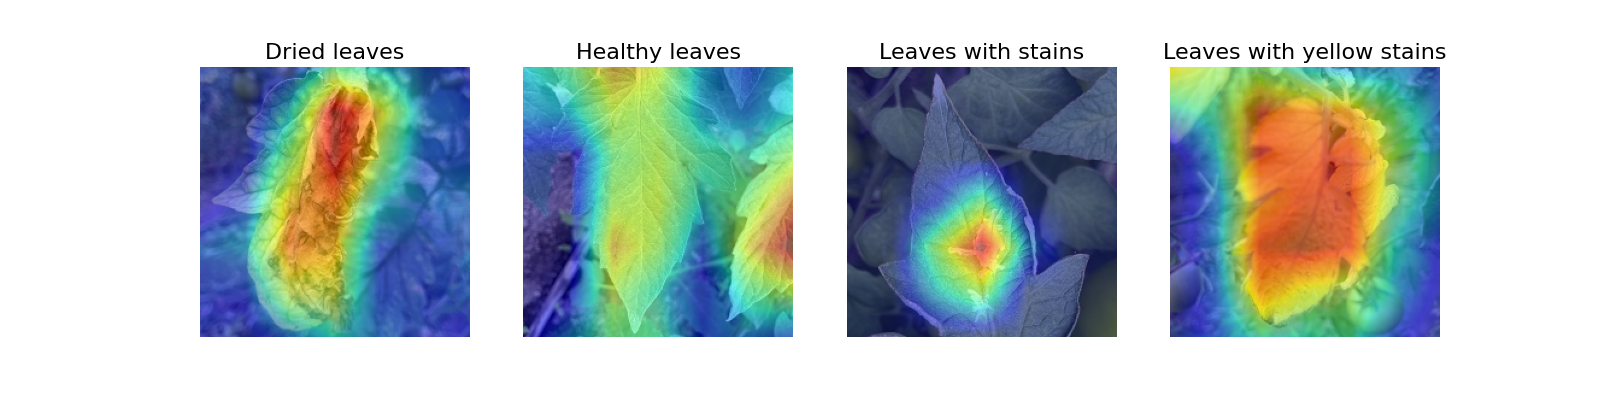
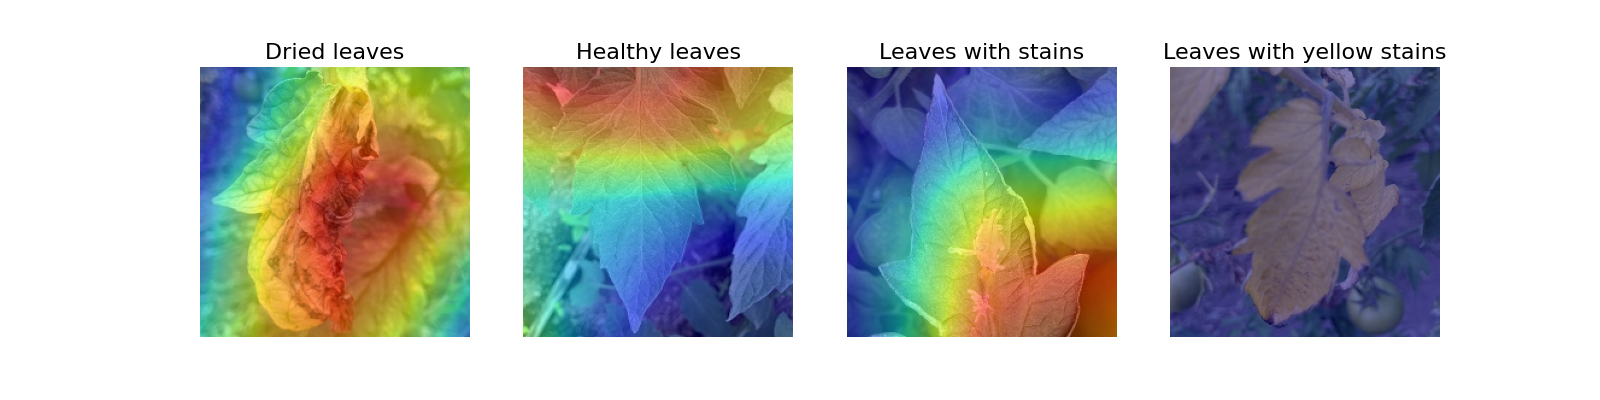
grad_cam_final

diff --git a/gradcam.py b/gradcam.py
@@ -33,7 +33,7 @@ img_label4 = keras.utils.load_img(test_path + "/leaves_yellow_stains/20230704_21
 test_images = [img_label1,img_label2,img_label3,img_label4]
 
 models_names = ["Efficient", "Inception", "Mobilenet", "Xception", "VGG16"]
-model_convext = tf.keras.models.load_model("C:/Users/paur/Documents/Invernadero/Models/Convext/Convext_Falseunfree.h5")
+#model_convext = tf.keras.models.load_model("C:/Users/paur/Documents/Invernadero/Models/Convext/Convext_Falseunfree.h5")
 model_efficient = tf.keras.models.load_model("C:/Users/paur/Documents/Invernadero/Models/Efficient/Efficient_Falseunfree.h5")
 model_inception = tf.keras.models.load_model("C:/Users/paur/Documents/Invernadero/Models/Inception/Inception_Falseunfree.h5")
 model_mobilenet = tf.keras.models.load_model("C:/Users/paur/Documents/Invernadero/Models/Mobilenet/Mobilenet_Falseunfree.h5")
@@ -41,6 +41,12 @@ model_xception = tf.keras.models.load_model("C:/Users/paur/Documents/Invernadero
 model_vgg16 = tf.keras.models.load_model("C:/Users/paur/Documents/Invernadero/Models/VGG16/vgg16_Falseunfree.h5")
 models = [model_efficient, model_inception, model_mobilenet, model_xception, model_vgg16]
 
+model_variations = ["added_top_l", "unfrozen", "augmented", "unfro_aug"]
+############ Efficient  ################################
+model_efficient_1 = tf.keras.models.load_model("C:/Users/paur/Documents/Invernadero/Models/Efficient/Efficient_False.h5")
+model_efficient_2 = tf.keras.models.load_model("C:/Users/paur/Documents/Invernadero/Models/Efficient/Efficient_True.h5")
+model_efficient_3 = tf.keras.models.load_model("C:/Users/paur/Documents/Invernadero/Models/Efficient/Efficient_Falseunfree.h5")
+model_efficient_4 = tf.keras.models.load_model("C:/Users/paur/Documents/Invernadero/Models/Efficient/Efficient_Trueunfree.h5")
 
 #Loading.
 def visualization (image_titles):
@@ -73,7 +79,7 @@ def grad_cam_models (models, img, models_names, output_path, label, label_score)
         
         
         
-def grad_cam_labels (model, test_images, model_name):
+def grad_cam_labels (model, test_images, model_name, output_path):
     gradcam = Gradcam(model,
                     model_modifier=replace2linear,
                     clone=False)
@@ -94,18 +100,40 @@ def grad_cam_labels (model, test_images, model_name):
     plt.show() 
     
 
-
-
-
+#########################################################################################
 visualization (image_titles)
 for i, image in enumerate (test_images):
     grad_cam_models (models, image, models_names, output_path, image_titles[i] , i)
 
 for i, model in enumerate (models):
-    grad_cam_labels (model_efficient, test_images, models_names[i])
+    grad_cam_labels (model, test_images, models_names[i],output_path)
 
+##########################################################################################
+model_variations = ["added_top_l", "unfrozen", "augmented", "unfro_aug"]
+############ Efficient  ################################
+model_efficient_1 = tf.keras.models.load_model("C:/Users/paur/Documents/Invernadero/Models/Efficient/Efficient_False.h5")
+model_efficient_2 = tf.keras.models.load_model("C:/Users/paur/Documents/Invernadero/Models/Efficient/Efficient_True.h5")
+model_efficient_3 = tf.keras.models.load_model("C:/Users/paur/Documents/Invernadero/Models/Efficient/Efficient_Falseunfree.h5")
+model_efficient_4 = tf.keras.models.load_model("C:/Users/paur/Documents/Invernadero/Models/Efficient/Efficient_Trueunfree.h5")
 
+efficient_models = [model_efficient_1,model_efficient_2,model_efficient_3,model_efficient_4]
+output_path_effi = "C:/Users/paur/Documents/Invernadero/Greenhouse_project/grad_cam" + "/Efficient/"
+os.makedirs(output_path_effi, exist_ok=True)
+for i, model in enumerate (efficient_models):
+    grad_cam_labels (model, test_images, model_variations[i],output_path_effi)
+    
+############ Efficient  ################################
+model_mobilenet_1 = tf.keras.models.load_model("C:/Users/paur/Documents/Invernadero/Models/Mobilenet/Mobilenet_False.h5")
+model_mobilenet_2 = tf.keras.models.load_model("C:/Users/paur/Documents/Invernadero/Models/Mobilenet/Mobilenet_True.h5")
+model_mobilenet_3 = tf.keras.models.load_model("C:/Users/paur/Documents/Invernadero/Models/Mobilenet/Mobilenet_Falseunfree.h5")
+model_mobilenet_4 = tf.keras.models.load_model("C:/Users/paur/Documents/Invernadero/Models/Mobilenet/Mobilenet_Trueunfree.h5")
 
+mobilenet_models = [model_mobilenet_1,model_mobilenet_2,model_mobilenet_3,model_mobilenet_4]
+output_path_mobi = "C:/Users/paur/Documents/Invernadero/Greenhouse_project/grad_cam" + "/Mobilenet/"
+os.makedirs(output_path_mobi, exist_ok=True)
+for i, model in enumerate (mobilenet_models):
+    grad_cam_labels (model, test_images, model_variations[i],output_path_mobi)
+    
 '''
 images = []
 name = []
